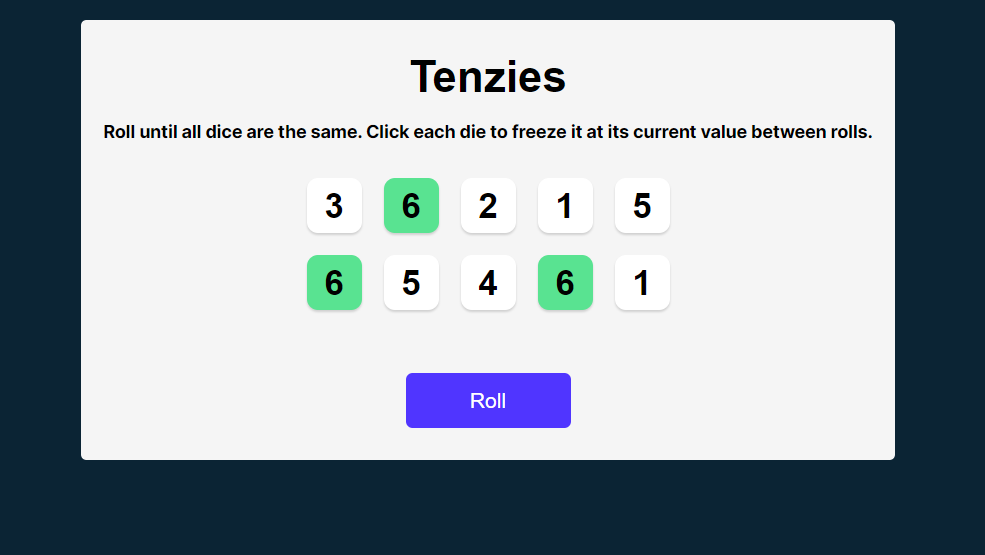
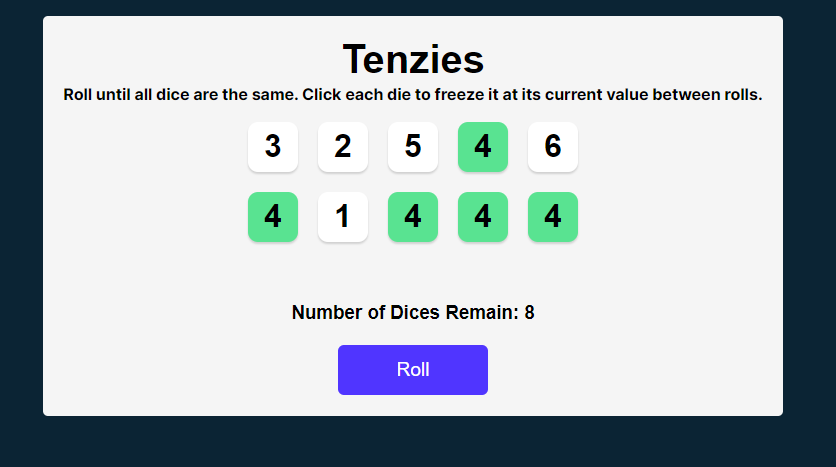
updated!

Changed region(s): [[0.0311, 0.03, 0.9641, 0.8994]]

diff --git a/README.md b/README.md
@@ -10,253 +10,31 @@
 - A button for rolling the dice.
 - A nice Design the follow the UI design guidelines.
 - Some useful functionalities like holding dices, change the color of hold dices and Cafetti when the user win the game.
+- Logic: Keep number of dices to 10 and decrement it when user roll dice.
 
 ## Code
 ### HTML
 Link: [Open HTML files in Editor](index.html)
-OR
-Quick Check here :point_down:
-``` 
-<!DOCTYPE html>
-<html lang="en">
-<head>
-    <link rel="preconnect" href="https://fonts.googleapis.com">
-    <link rel="preconnect" href="https://fonts.gstatic.com" crossorigin>
-    <link href="https://fonts.googleapis.com/css2?family=Inter:wght@500&display=swap" rel="stylesheet">
-    <link rel="stylesheet" href="style.css">
-</head>
-<body>
-    <div class="main-clss">
-        <div class="sub-1-clss">
-            <h1 id="ttf">Metric/Imperial Unit Conversion</h1>
-            <input type="text" id="txt" placeholder="0"><br>
-            <button class="convert" id="btn-convt" >Convert</button>
 
-        </div>
-        <div class="sub-2-clss">
-            <div class="sb22clss">
-                <h3>Length (Meter/Feet)</h3>
-                <p id="meter"> 0 meters = 0 feet | 0 feet = 0 meters</p>
-            </div>
-            <div class="sb22clss">
-                <h3>Volume (Liters/Gallons)</h3>
-                <p id="liter"> 0 Liters = 0 Gallons | 0 Gallons = 0 Liters</p>
-            </div>
-            <div class="sb22clss">
-                <h3>Mass (Kilograms/Pounds)</h3>
-                <p id="kilogram"> 0 Kilograms = 0 pounds| 0 pounds = 0 Kilograms</p>
-            </div>
-            
-        </div>
-    </div>
-    <script src="index.js" > </script>
-</body>
-</html>
- ```
 
 ### CSS 
-Link: [Open CSS files in Editor](style.css)
-OR
-Quick Check here :point_down:
-```
-body{
-    margin: 0;
-    padding: 0;
-    min-width: 400px;
-    text-align: center;
-    font-family: 'Inter', sans-serif;
-    background: url(dog.jpg); 
-    background-repeat: no-repeat;
-    background-size: 100%; 
-}
-.main-clss{
-    display: flex;
-    flex-direction: column;
-    justify-content: center;
-    align-items: center;
-    margin-top: 5px;
-}
-.sub-1-clss{
-    background: #a143ff;
-
-    width: 20rem;
-    height: 13rem;
-    font-family: 'Inter';
-    font-style: normal;
-    font-size: 0.7rem;
-    color: rgb(245, 247, 122);
-    border-radius: 1rem;
-    margin-bottom: 2rem;
-    box-shadow: 0 0 10px black;
-}
-
-input{
-    background: #a143ff;
-    color: #FFFFFF;
-    width: 5rem;
-    height: 3rem;
-    font-size: 2rem;
-    text-align: center;
-    margin: 0.2rem;
-    border: 2px solid #B295FF;
-    border-radius: 0.5rem;
-    box-shadow: none;
-}
-input:focus { 
-    outline: none !important;
-    box-shadow: 0 0 10px black;
-}
-
-input::placeholder{
-    color: #FFFFFF;
-}
-button{
-    width: 5rem;
-    height: 2rem;
-    background: #FFFFFF;
-    border-radius: 5px;
-    border: none;
-    font-size: 1.00rem;
-    margin-top: 0.5rem;
-
-}
-button:active{
-   box-shadow: 0px 0px 1px 3px #D8F6CE;
-}
-.sb22clss{
-    background: rgb(123, 237, 195);
-    margin-bottom: 0.5rem ;
-    width: 20rem;
-    height: 6.81rem;
-    border-radius:none;
-    display: flex;
-    flex-direction: column;
-    justify-content: center;
-    align-items: center;
-    box-shadow: 0 0 5px black;
-    border-radius: 10px;
-    font-size: 0.8rem;
-}
-h1{
-    text-shadow: 0 0 5px black;
-}
-h3{
-    margin: 0 0 0.563rem 0;
-    padding: 0.563rem 0 0 0;
-}
-p{
-    margin: 0;
-    padding: 0;
-
-}
-@media only screen and (min-width: 600px) {
-    body {
-      background-color: rgb(123, 237, 195);
-      font-size: 100%;
-    }
-    .sub-1-clss{
-        background: #5643ff;
-    
-        width: 35rem;
-        height: 18rem;
-        font-size: 1rem;
-        color: rgb(153, 247, 122);
-    }
-    input{
-        background: #5643ff;
-        width: 8rem;
-        height: 6rem;
-        font-size: 4rem;
-    }
-    button{
-        width: 8rem;
-        height: 3rem;
-        background: #ffffff;
-        font-size: 1.3rem; }
-    .sb22clss{
-        background: white;
-        margin-bottom: 1.464rem ;
-        width: 35rem;
-        font-size: 1rem;
-    }
-  }
-
-
-
-```
+Link: [Open CSS files in Editor](./src/App.css)
 
 ### JavaScript
-Link: [Open JavaScript files in Editor](index.js)
+Link: [Open JavaScript files in Editor](./src/App.jsx)
 OR
-Quick Check here :point_down:
-```
 
-/* Conversion Factors
-1 meter = 3.281 feet => 1feet =1/3.281 meter
-1 liter = 0.264 gallon =>gallon= 1/0.264 liters
-1 kilogram = 2.204 pound
-*/
-let magnitude=0;
-console.log("mag=", magnitude)
-const meter=document.getElementById("meter")
-const liter=document.getElementById("liter")
-const kilogram=document.getElementById("kilogram")
-
-const buttn=document.getElementById("btn-convt")
-buttn.addEventListener("click", function(){
-    magnitude= Number(document.getElementById("txt").value);
-    conversion(magnitude,3.281)
-    conversion(magnitude,0.264)
-    conversion(magnitude,2.204)
-})
-function conversion(mag,factor){
-    let u1=0;
-    let u2=0;
-   //Meter and Feet
-    
-    u1=(mag*factor).toFixed(2);
-    u2=((mag)*(1/factor)).toFixed(2);
-    if(factor===3.281){
-        render(u1, u2,"meter", "feet", meter); 
-    }
-    else if(factor===0.264){
-        render(u1, u2,"Liters", "Gallons", liter); 
-    }
-    else{
-        render(u1, u2,"Kilograms", "Pounds", kilogram); 
-    }
-       
-}
-
-function render(x,y,a,b,body ){
-    body.innerHTML= `${magnitude} ${a} = ${x} ${b} | ${magnitude} ${b} = ${y} ${a} `;
-    
-}
-
-
-
-
-```
-### Manifest JSON
-```
-{
-    "manifest_version": 3,
-    "version": "1.0",
-    "name": "Leads tracker",
-    "action": {
-        "default_popup": "index.html",
-        "default_icon": "icon.png"
-    }
-}
-
-```
-## Preview after Completion: :sunglasses:
- ![Browser_Preview](preview.png)
  
-## How to Add this Extension to Chrome
-### Steps:
-1) Download this repository
-2) Open Chrome then setting and then click on extensions  or just copy paste this in search bar--> chrome://extensions/
-3) Click on developer mode on
-4) click on Load Unpack and choose folder that has been dowloaded.
-5) Extension will be shown in extension panel.
+## How this game works:
+
+Refresh the game first.
+The Game is design such that the user has to pick same dice number and roll the dice again. Each time the user roll dice, the number of dices will decrement by 1 and if the user hold all same dice before reaching zero number of dices to roll, the User Wins and vice versa.
+
+
+## What I learnt in the Project:
+- Basics of React.
+- How to use React.useState
+- How to handle React.useEffect.
+- How to setup react app with vite and also to deploy it.
+- Conditonal Rendering and all basic concepts.
+- npm commands.
